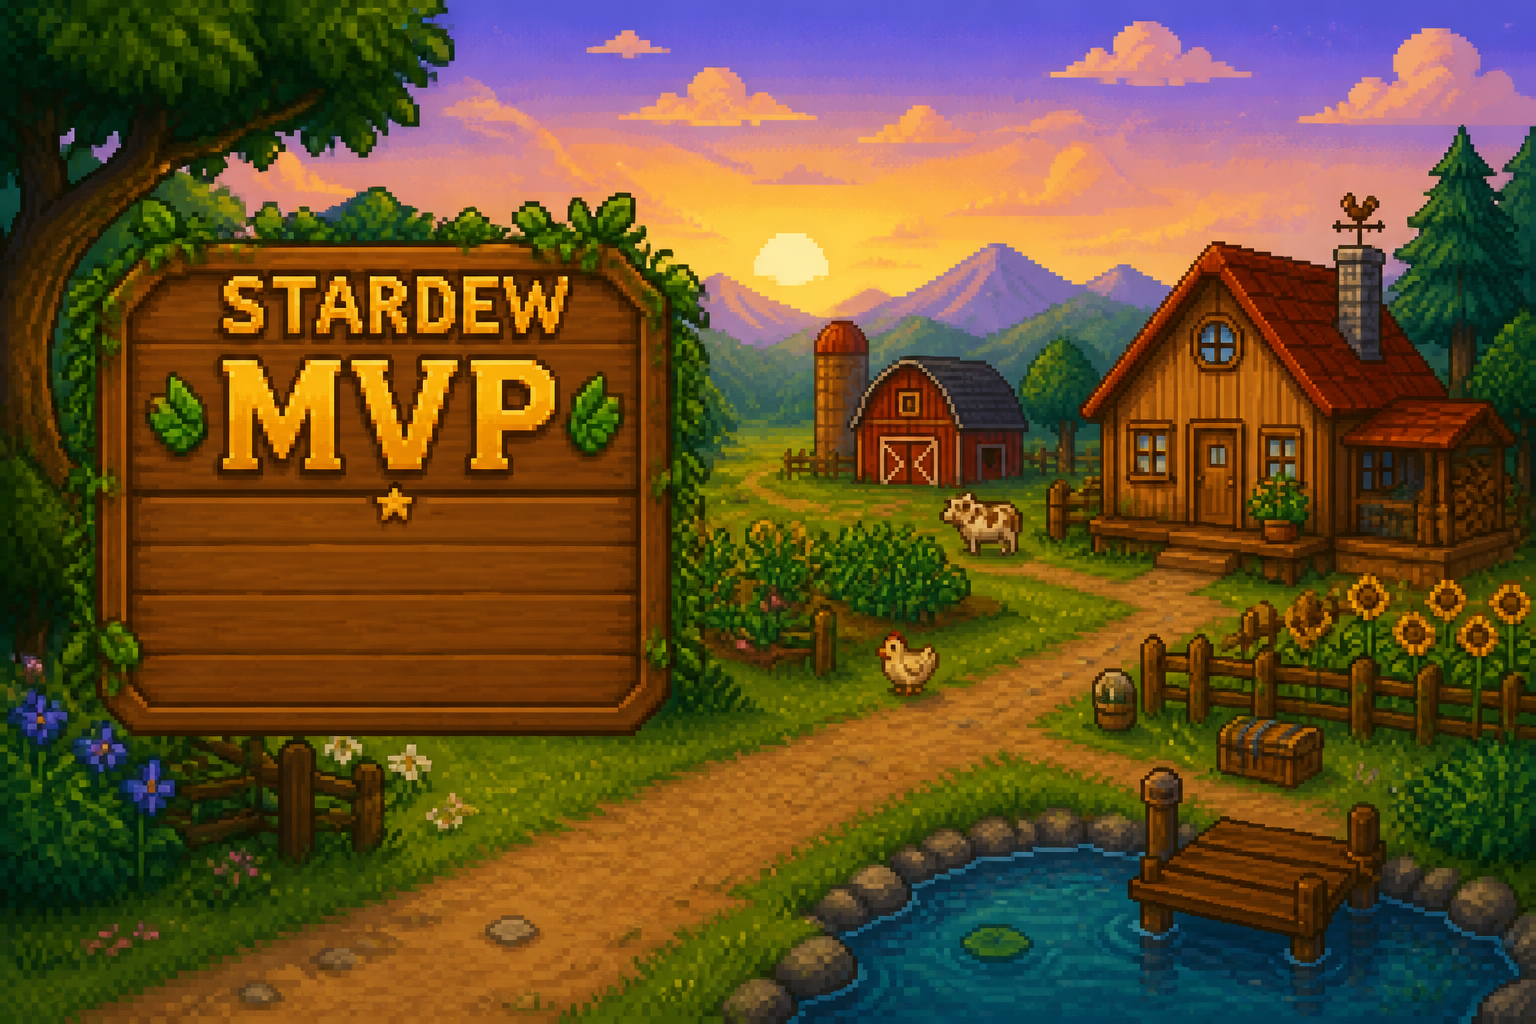
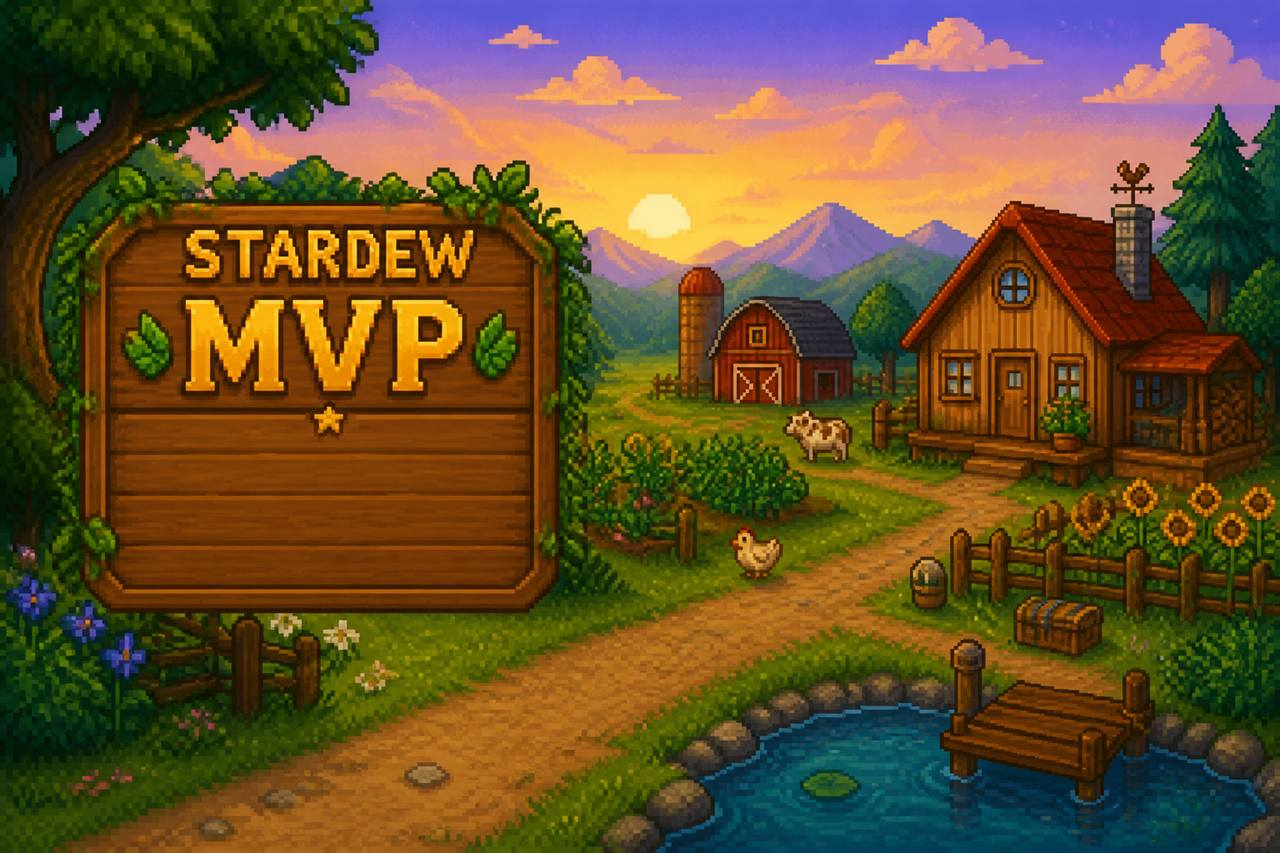
Shrink homepage hero image for faster mobile load.

Changed region(s): [[0.3438, 0.2743, 0.375, 0.3048]]

diff --git a/index.html b/index.html
@@ -55,7 +55,7 @@
   <main id="main">
     <section class="hero" aria-label="Hero">
       <div class="hero-media">
-        <img src="assets/hero.jpg" alt="Stardew Valley farm morning - Valley First Year beginner guide hub" width="1600" height="900" />
+        <img src="assets/hero.jpg" alt="Stardew Valley farm morning - Valley First Year beginner guide hub" width="1280" height="853" fetchpriority="high" decoding="async" />
       </div>
       <div class="hero-veil" aria-hidden="true"></div>
       <div class="wrap hero-copy">
